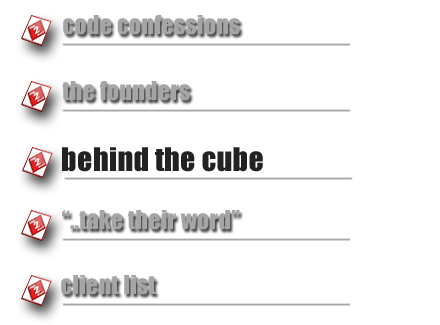
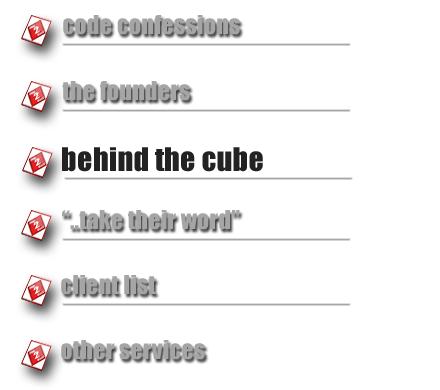
service sub box graphic fix

Changed region(s): [[0.0295, 0.0308, 0.7977, 0.9846]]

diff --git a/public/stylesheets/application.css b/public/stylesheets/application.css
@@ -558,6 +558,9 @@ ul.nav_ul li a {
 .client_list {
   background: url('../images/c2_headers.png') 0px -260px no-repeat;
 }
+.other_svc {
+  background: url('../images/c2_headers.png') 0px -325px no-repeat;
+}
 /********************SUB BOX LISTING*********/
 .cube_sub_listing {
   position: relative;
